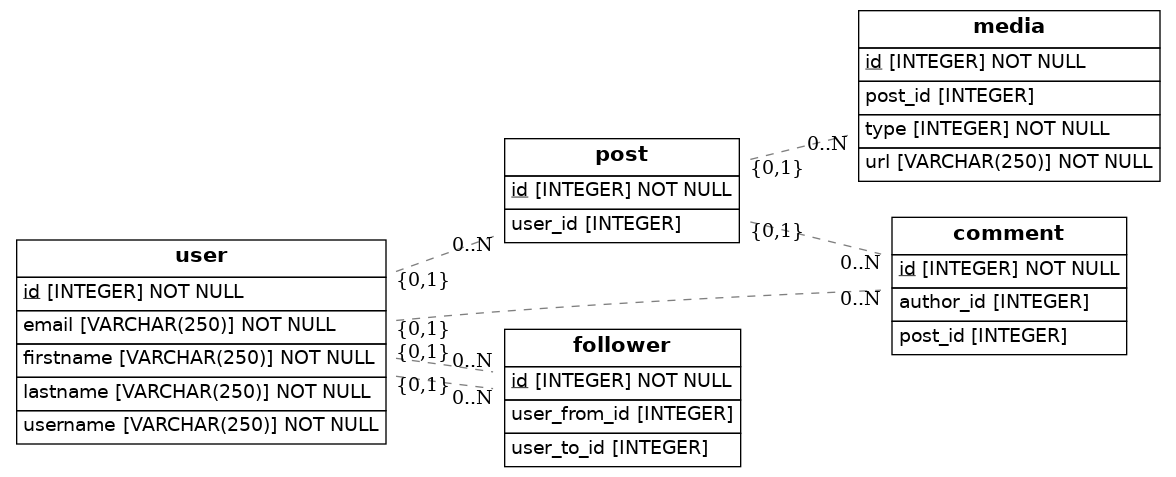
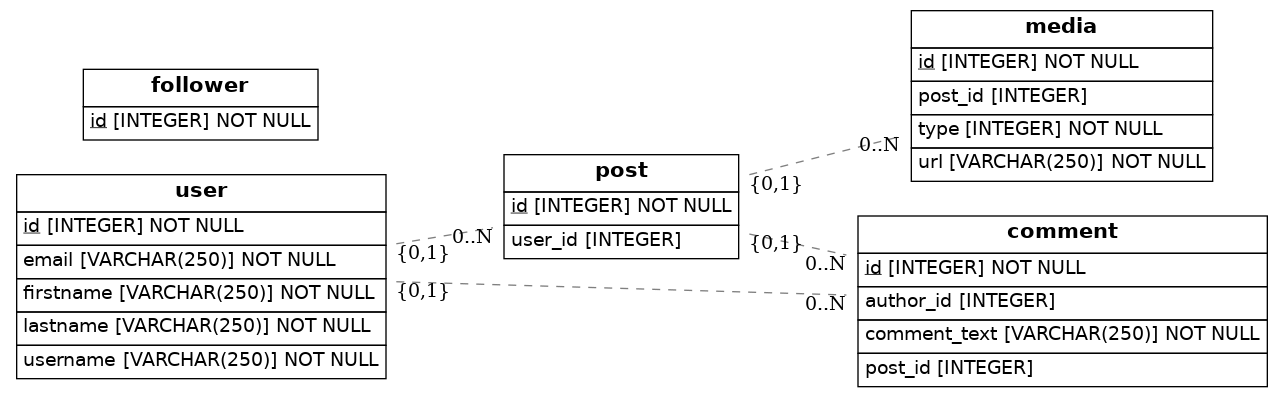
error de relaciones corregido

Changed region(s): [[0.0, 0.0, 1.0, 0.9975], [0.0612, 0.1511, 0.2449, 0.3627]]

diff --git a/src/models.py b/src/models.py
@@ -20,11 +20,11 @@ class User(Base):
     comments = relationship('Comment', backref='user')
     media = relationship('Media', backref='user')
     Followed = relationship(
-        'User',
-        secondary=Follower,
-        primaryjoin=(Follower.user_from_id == id),
-        secondaryjoin=(Follower.user_to_id == id),
-        backref='following',
+        'Follower',
+        secondary='Follower',
+        primaryjoin=('Follower.user_from_id '== id),
+        secondaryjoin=('Follower.user_to_id' == id),
+        backref='user',
         lazy='dinamic')
     
 
@@ -34,7 +34,8 @@ class Post(Base):
     # Notice that each column is also a normal Python instance attribute.
     id = Column(Integer, primary_key=True)
     user_id = Column(Integer, ForeignKey('user.id'))
-    
+    comment = relationship('Comment', backref='post')
+    media = relationship('Media', backref='post')
 
 class Comment(Base):
     __tablename__ = 'comment'
@@ -44,7 +45,7 @@ class Comment(Base):
     comment_text = Column(String(250), nullable=False)
     author_id = Column(Integer, ForeignKey('user.id'))
     post_id = Column(Integer, ForeignKey('post.id'))
-    post = relationship(Post)
+    
 
 class Media(Base):
     __tablename__ = 'media'
@@ -54,7 +55,7 @@ class Media(Base):
     type = Column(Integer, nullable=False)
     url = Column(String(250), nullable=False)
     post_id = Column(Integer, ForeignKey('post.id'))
-    post = relationship(Post)
+    
     
 class Follower(Base):
     __tablename__ = 'follower'
